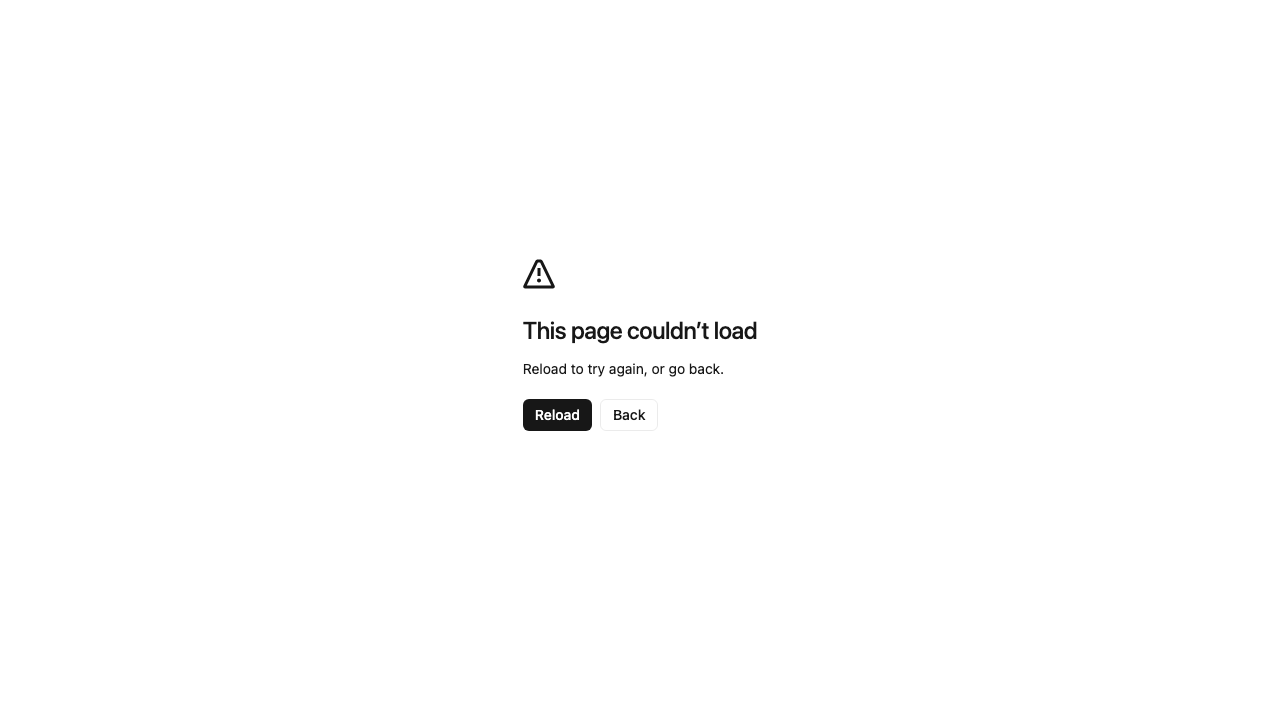
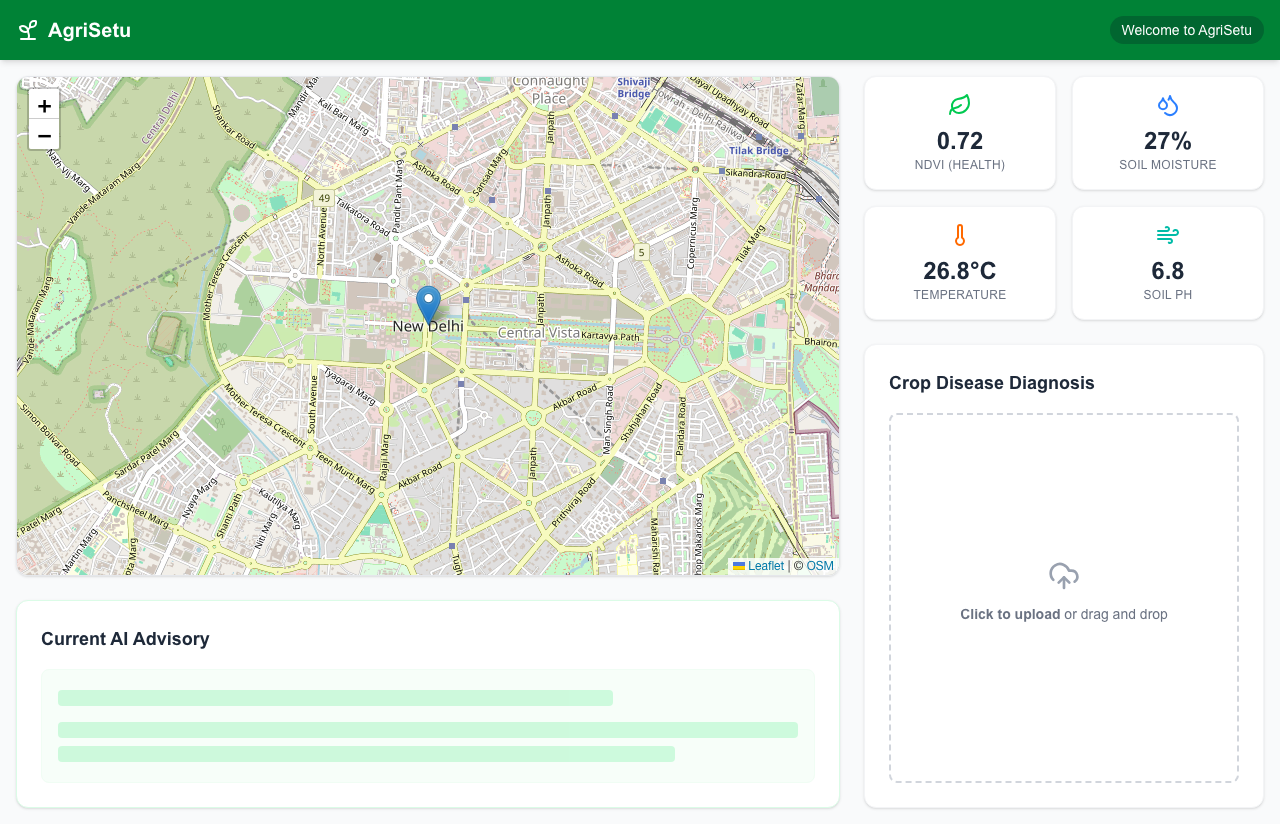
fix: correct hallucinated gemini-3.6-flash model to gemini-1.5-flash in edge functions

diff --git a/scratch/test.js b/scratch/test.js
@@ -1,21 +1,49 @@
 const { chromium } = require('playwright');
 
 (async () => {
-  const browser = await chromium.launch();
+  console.log("Starting smoke test on https://agrisetu-kappa.vercel.app");
+  const browser = await chromium.launch({ headless: true });
   const page = await browser.newPage();
   
-  page.on('console', msg => console.log('PAGE LOG:', msg.type(), msg.text()));
-  page.on('pageerror', error => console.log('PAGE ERROR:', error.message));
-  page.on('response', response => {
-    if (!response.ok()) {
-      console.log('FAILED REQUEST:', response.url(), response.status());
-    }
+  // Capture console errors
+  page.on('console', msg => {
+    if (msg.type() === 'error') console.error(`[Browser Error]: ${msg.text()}`);
+  });
+  
+  // Capture uncaught page errors
+  page.on('pageerror', error => {
+    console.error(`[Page Error]: ${error.message}`);
+  });
+  
+  // Capture failed requests
+  page.on('requestfailed', request => {
+    console.error(`[Request Failed]: ${request.url()} - ${request.failure()?.errorText}`);
   });
 
-  console.log('Navigating to site...');
-  await page.goto('https://agrisetu-kappa.vercel.app', { waitUntil: 'networkidle' });
-  console.log('Site loaded. Taking screenshot...');
-  await page.screenshot({ path: 'screenshot.png' });
-  await browser.close();
-  console.log('Done.');
+  try {
+    await page.goto('https://agrisetu-kappa.vercel.app', { waitUntil: 'networkidle', timeout: 30000 });
+    console.log("Successfully loaded page.");
+    
+    // Check if the dashboard rendered
+    const title = await page.title();
+    console.log("Page title:", title);
+    
+    // Wait for Leaflet map to render
+    await page.waitForSelector('.leaflet-container', { timeout: 10000 });
+    console.log("Map rendered.");
+    
+    // Check if quick stats loaded (not showing "...")
+    await page.waitForTimeout(3000); // Wait for the initial API calls
+    const ndviStat = await page.locator('text=NDVI').first().textContent();
+    console.log("NDVI Text:", ndviStat);
+    
+    // Take a screenshot
+    await page.screenshot({ path: 'scratch/screenshot.png', fullPage: true });
+    console.log("Saved screenshot to scratch/screenshot.png");
+
+  } catch (error) {
+    console.error("Smoke test failed:", error);
+  } finally {
+    await browser.close();
+  }
 })();

diff --git a/supabase/functions/advisory-engine/index.ts b/supabase/functions/advisory-engine/index.ts
@@ -24,7 +24,7 @@ Deno.serve(async (req) => {
     if (!geminiApiKey) throw new Error('GEMINI_API_KEY is missing from Edge Function secrets')
 
     const genAI = new GoogleGenerativeAI(geminiApiKey)
-    const model = genAI.getGenerativeModel({ model: "gemini-3.6-flash" })
+    const model = genAI.getGenerativeModel({ model: "gemini-1.5-flash" })
 
     // 3. Generate Prompt
     const prompt = `

diff --git a/supabase/functions/diagnostic-module/index.ts b/supabase/functions/diagnostic-module/index.ts
@@ -24,7 +24,7 @@ Deno.serve(async (req) => {
     if (!geminiApiKey) throw new Error('GEMINI_API_KEY is missing from Edge Function secrets')
 
     const genAI = new GoogleGenerativeAI(geminiApiKey)
-    const model = genAI.getGenerativeModel({ model: "gemini-3.6-flash" })
+    const model = genAI.getGenerativeModel({ model: "gemini-1.5-flash" })
 
     // 3. Generate Prompt
     const prompt = `
